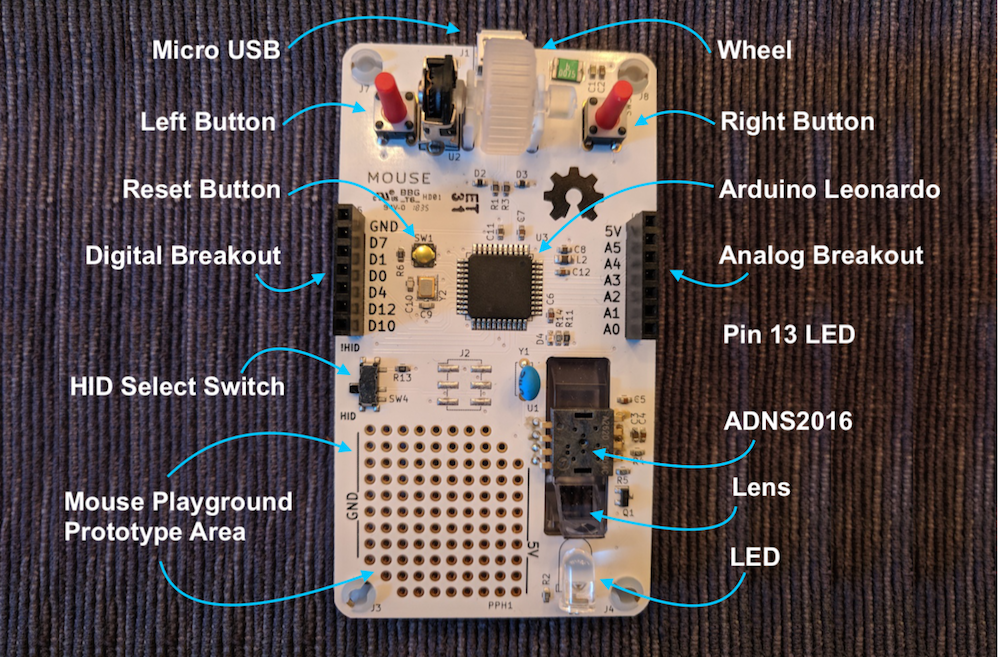
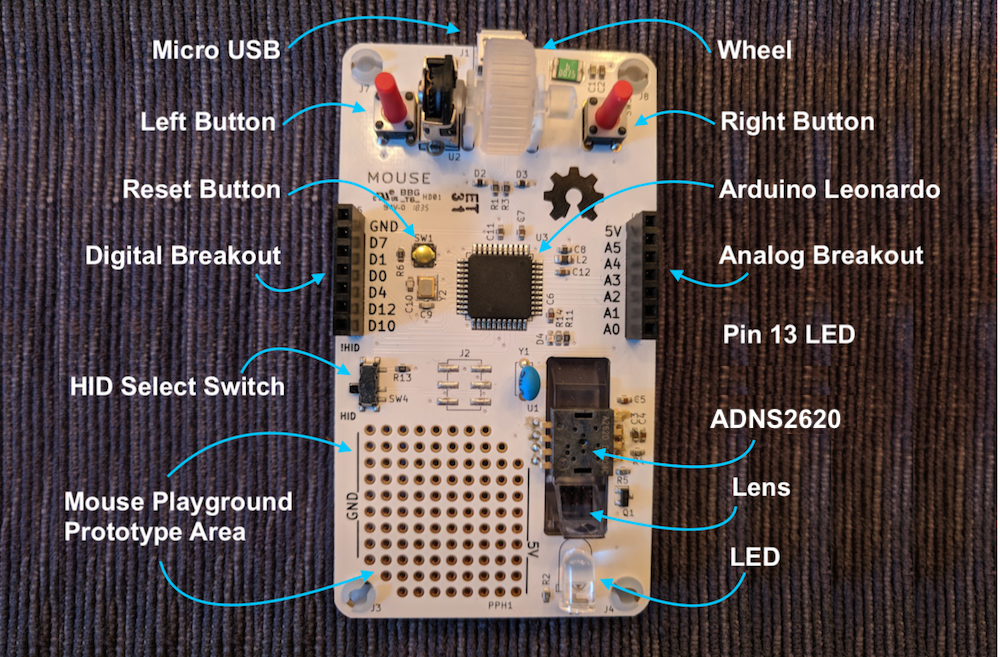
Updated with correct ADNS number

Changed region(s): [[0.713, 0.5479, 0.868, 0.6697]]

diff --git a/AssemblyInstructions.md b/AssemblyInstructions.md
@@ -7,7 +7,7 @@
 ![KitContents](images/MouseParts-_0000-parts.jpg)
 
 * 1 PCB populated with SMT components
-* 1 ADNS2026 Optical Mouse sensor
+* 1 ADNS2620 Optical Mouse sensor
 * 1 Clear plastic lens for ADNS sensor
 * 1 Mouse Wheel encoder
 * 2 Red pushbutton switches
@@ -18,11 +18,11 @@
 * 1 Mouse wheel holder
 
 
-## Step One: ADNS2026 at U1
+## Step One: ADNS2620 at U1
 ![ADNS_1](images/MouseParts-_0011_01.jpg)
-The ADNS2026 sensor has a small piece of kapton tape covering the lens. **Do Not** remove the kapton tape until directed to by these instructions. It will protect the lens from any random goo or dust getting in there.
+The ADNS2620 sensor has a small piece of kapton tape covering the lens. **Do Not** remove the kapton tape until directed to by these instructions. It will protect the lens from any random goo or dust getting in there.
 
-Solder the ADNS2026 optical sensor. It is **VERY** important that this part gets soldered at the right height on the board! Incorrect vertical position of the ADNS will cause the mouse to fail!
+Solder the ADNS2620 optical sensor. It is **VERY** important that this part gets soldered at the right height on the board! Incorrect vertical position of the ADNS will cause the mouse to fail!
 
 
 ![ADNS_2](images/MouseParts-_0010_02better.jpg)
